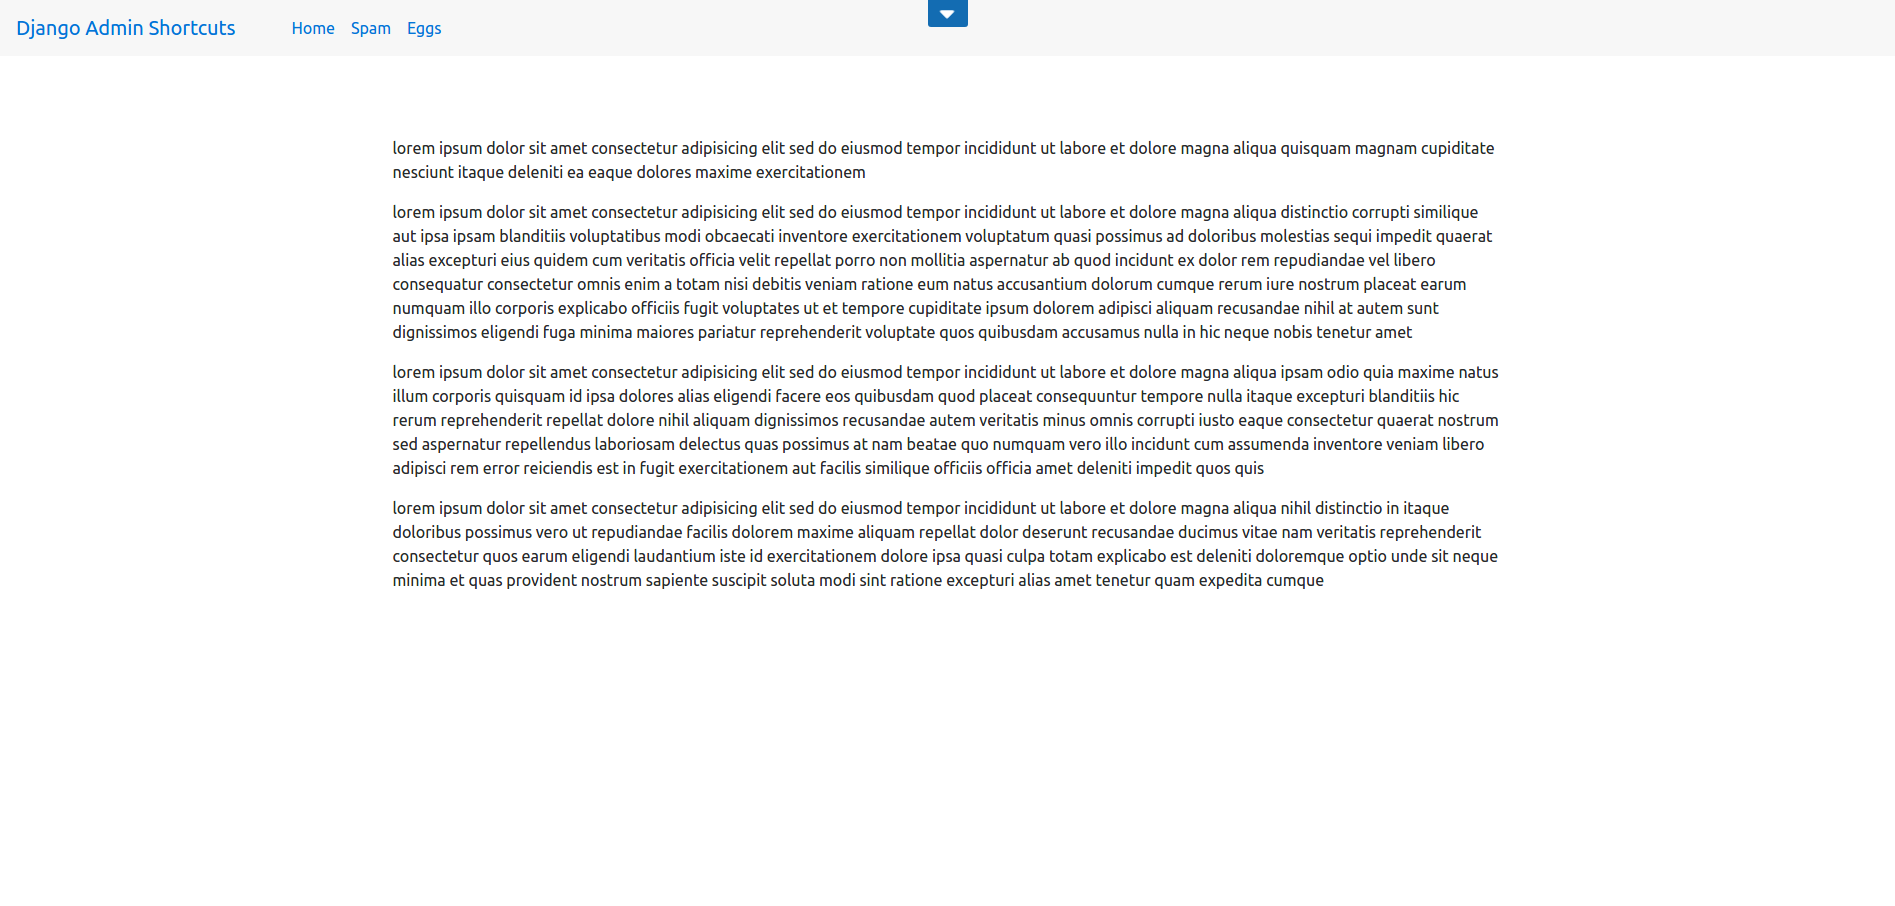
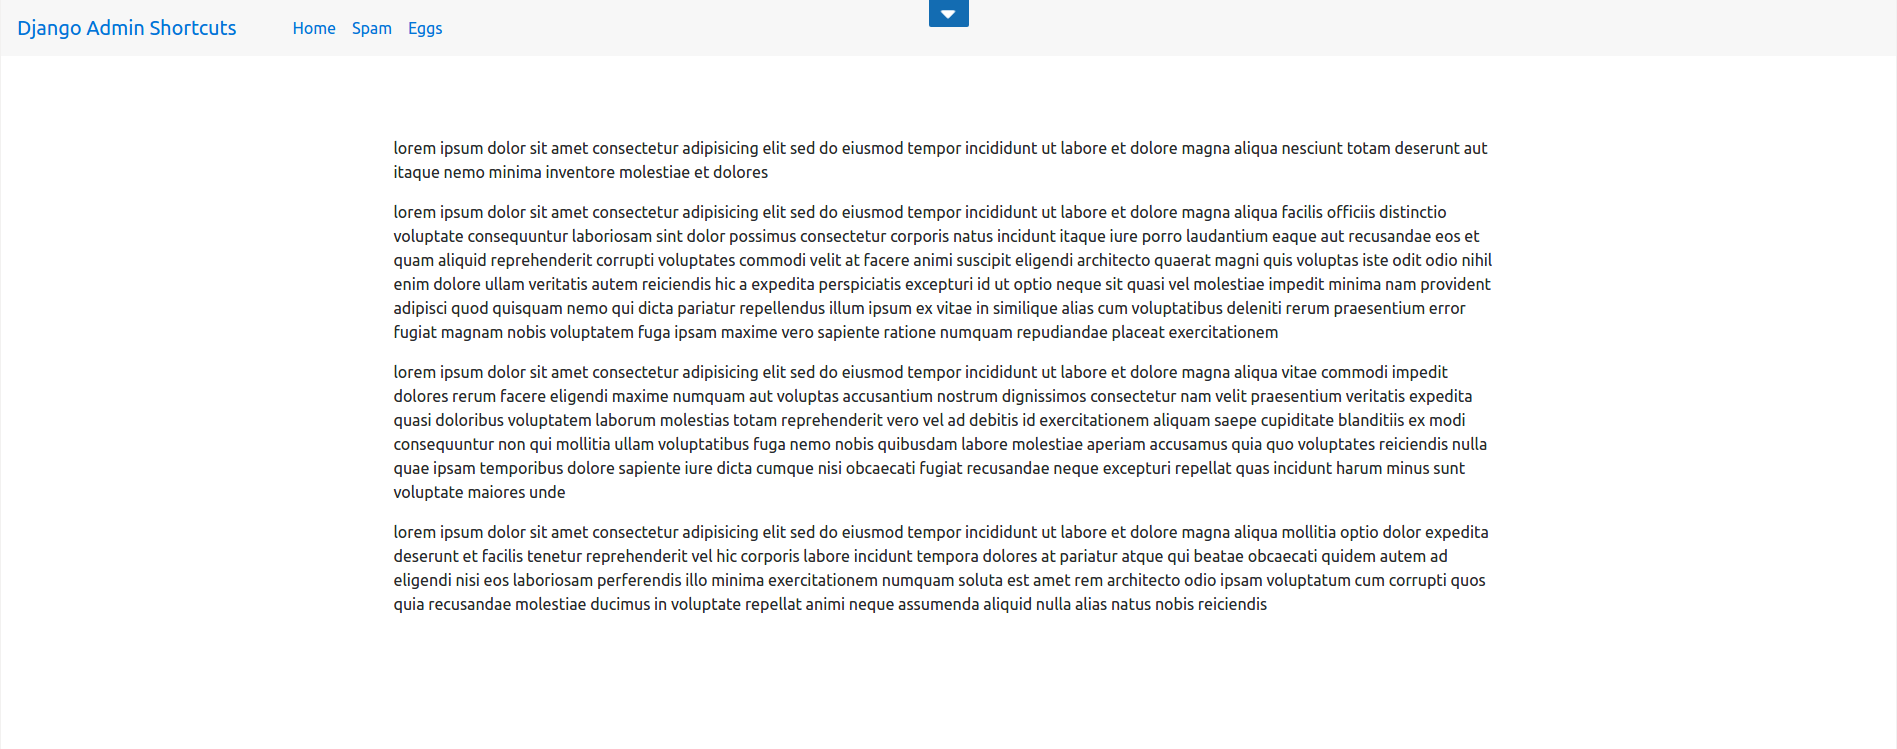
Update README with new screenshots and formatting

diff --git a/README.md b/README.md
@@ -3,7 +3,11 @@
 
 # Screenshots
 
+### Position: top, state: open
+
 ![Top Open Toolbar](docs/img/django_admin_shortcuts_top_open.png?raw=true "Top Open Toolbar")
+
+### Position: top, state: closed
 
 ![Top Closed Toolbar](docs/img/django_admin_shortcuts_top_closed.png?raw=true "Top Closed Toolbar")
 
@@ -12,20 +16,22 @@
 * Python (3.5)
 * Django (1.10)
 
+Currently tested only on the above noted versions of Python and Django. Will test further with older versions and update the list.
+
 # Installation
 
-Install using `pip`...
+Install using `pip`
 
     pip install django-admin-shortcuts
 
-Add `'admin_shortcuts'` to your `INSTALLED_APPS` setting.
+Add `'admin_shortcuts'` to your `INSTALLED_APPS` setting
 
     INSTALLED_APPS = (
         ...
         'admin_shortcuts',
     )
 
-Enable `admin_shortcuts` middleware.
+Enable `admin_shortcuts` middleware
 
     MIDDLEWARE = [
         ...
